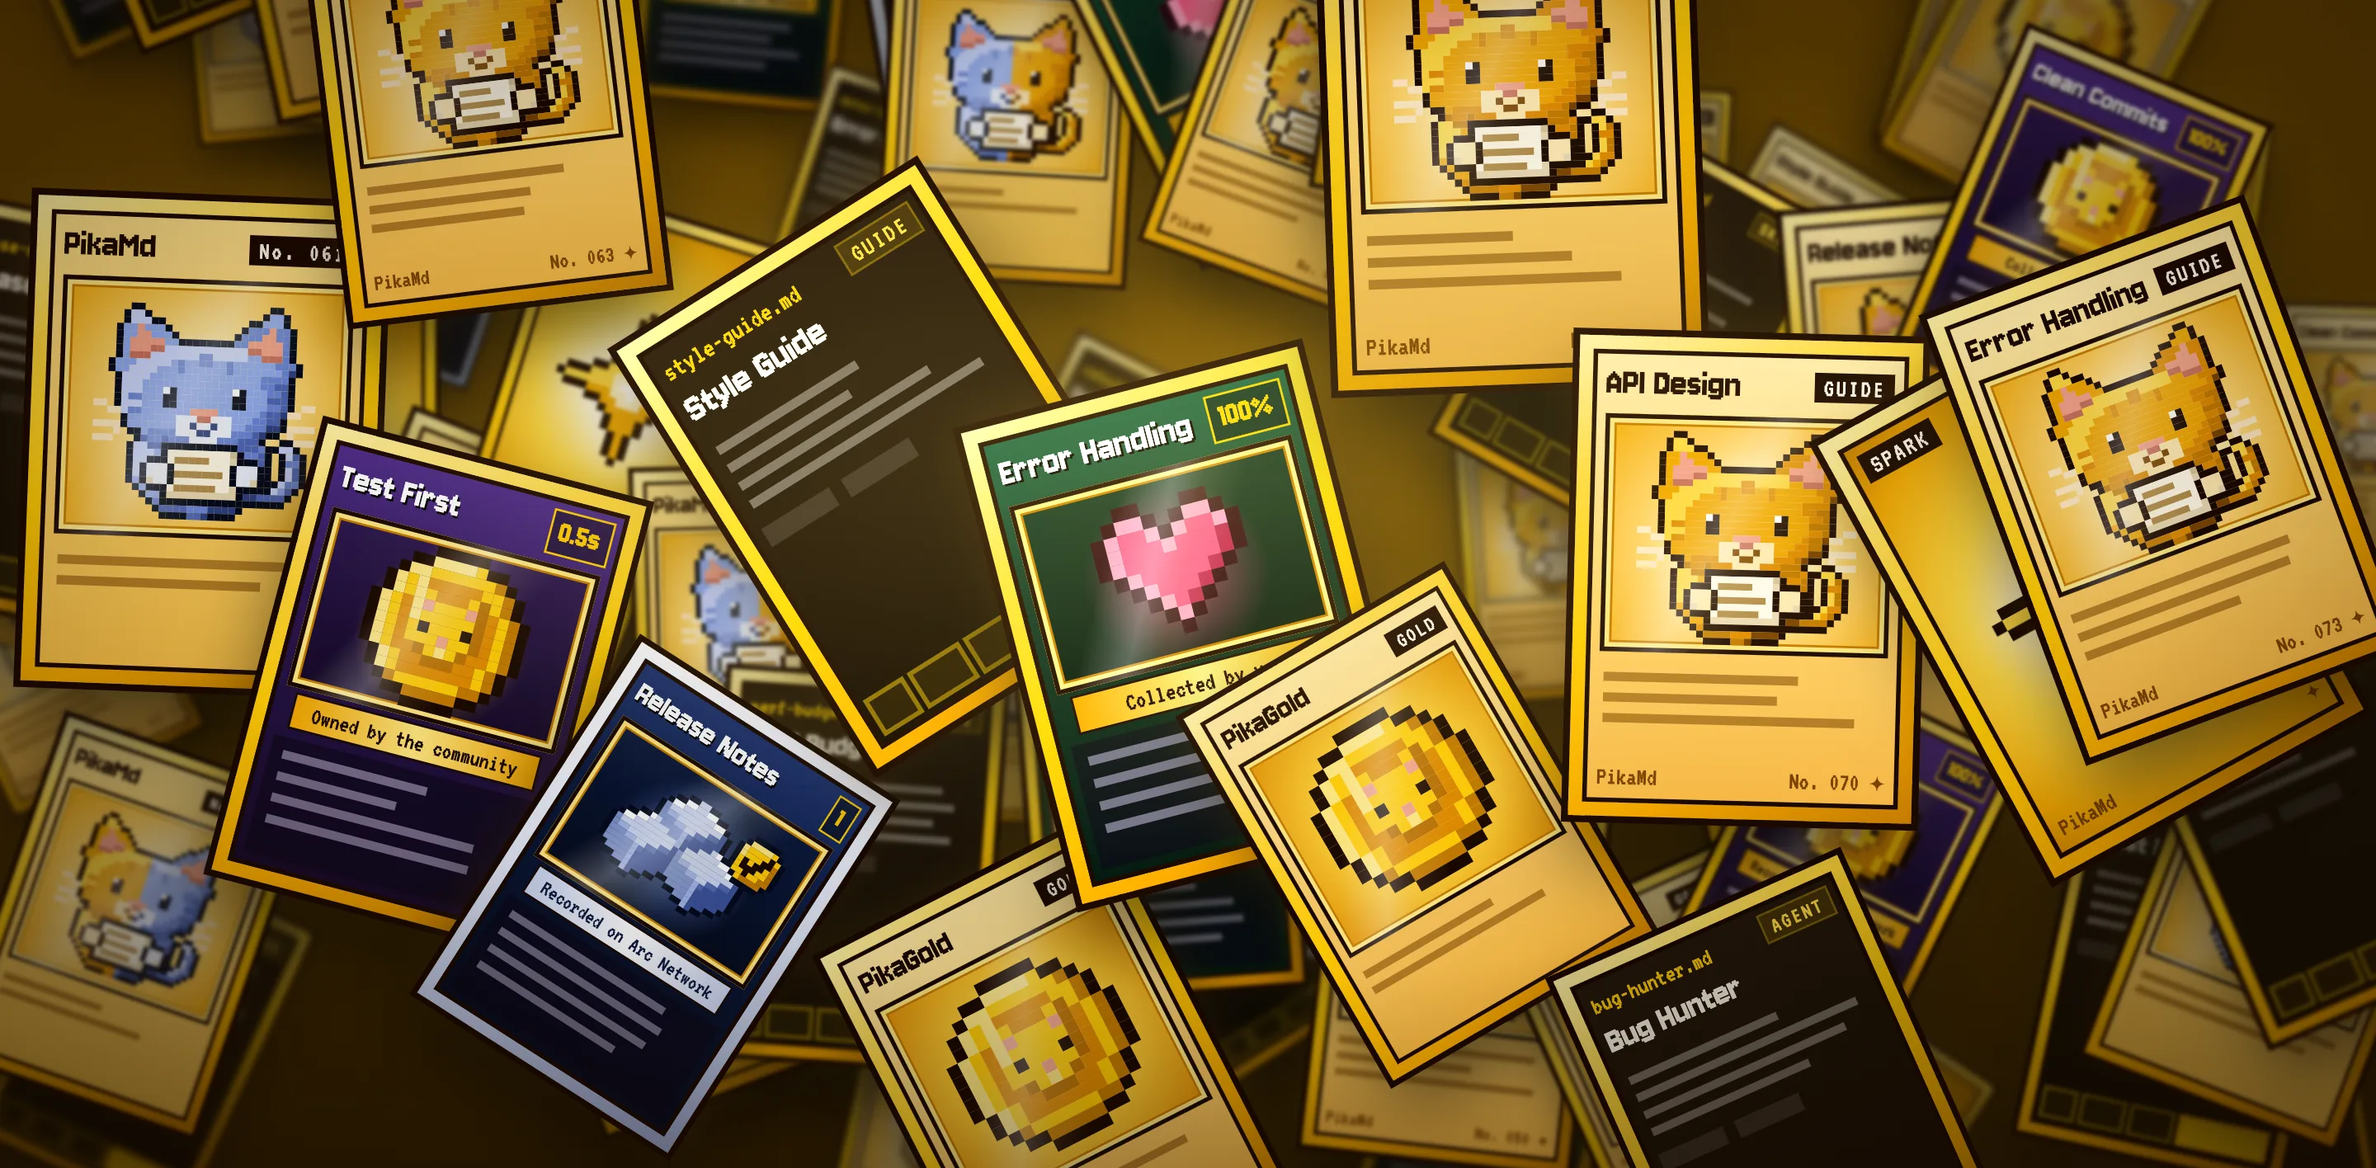
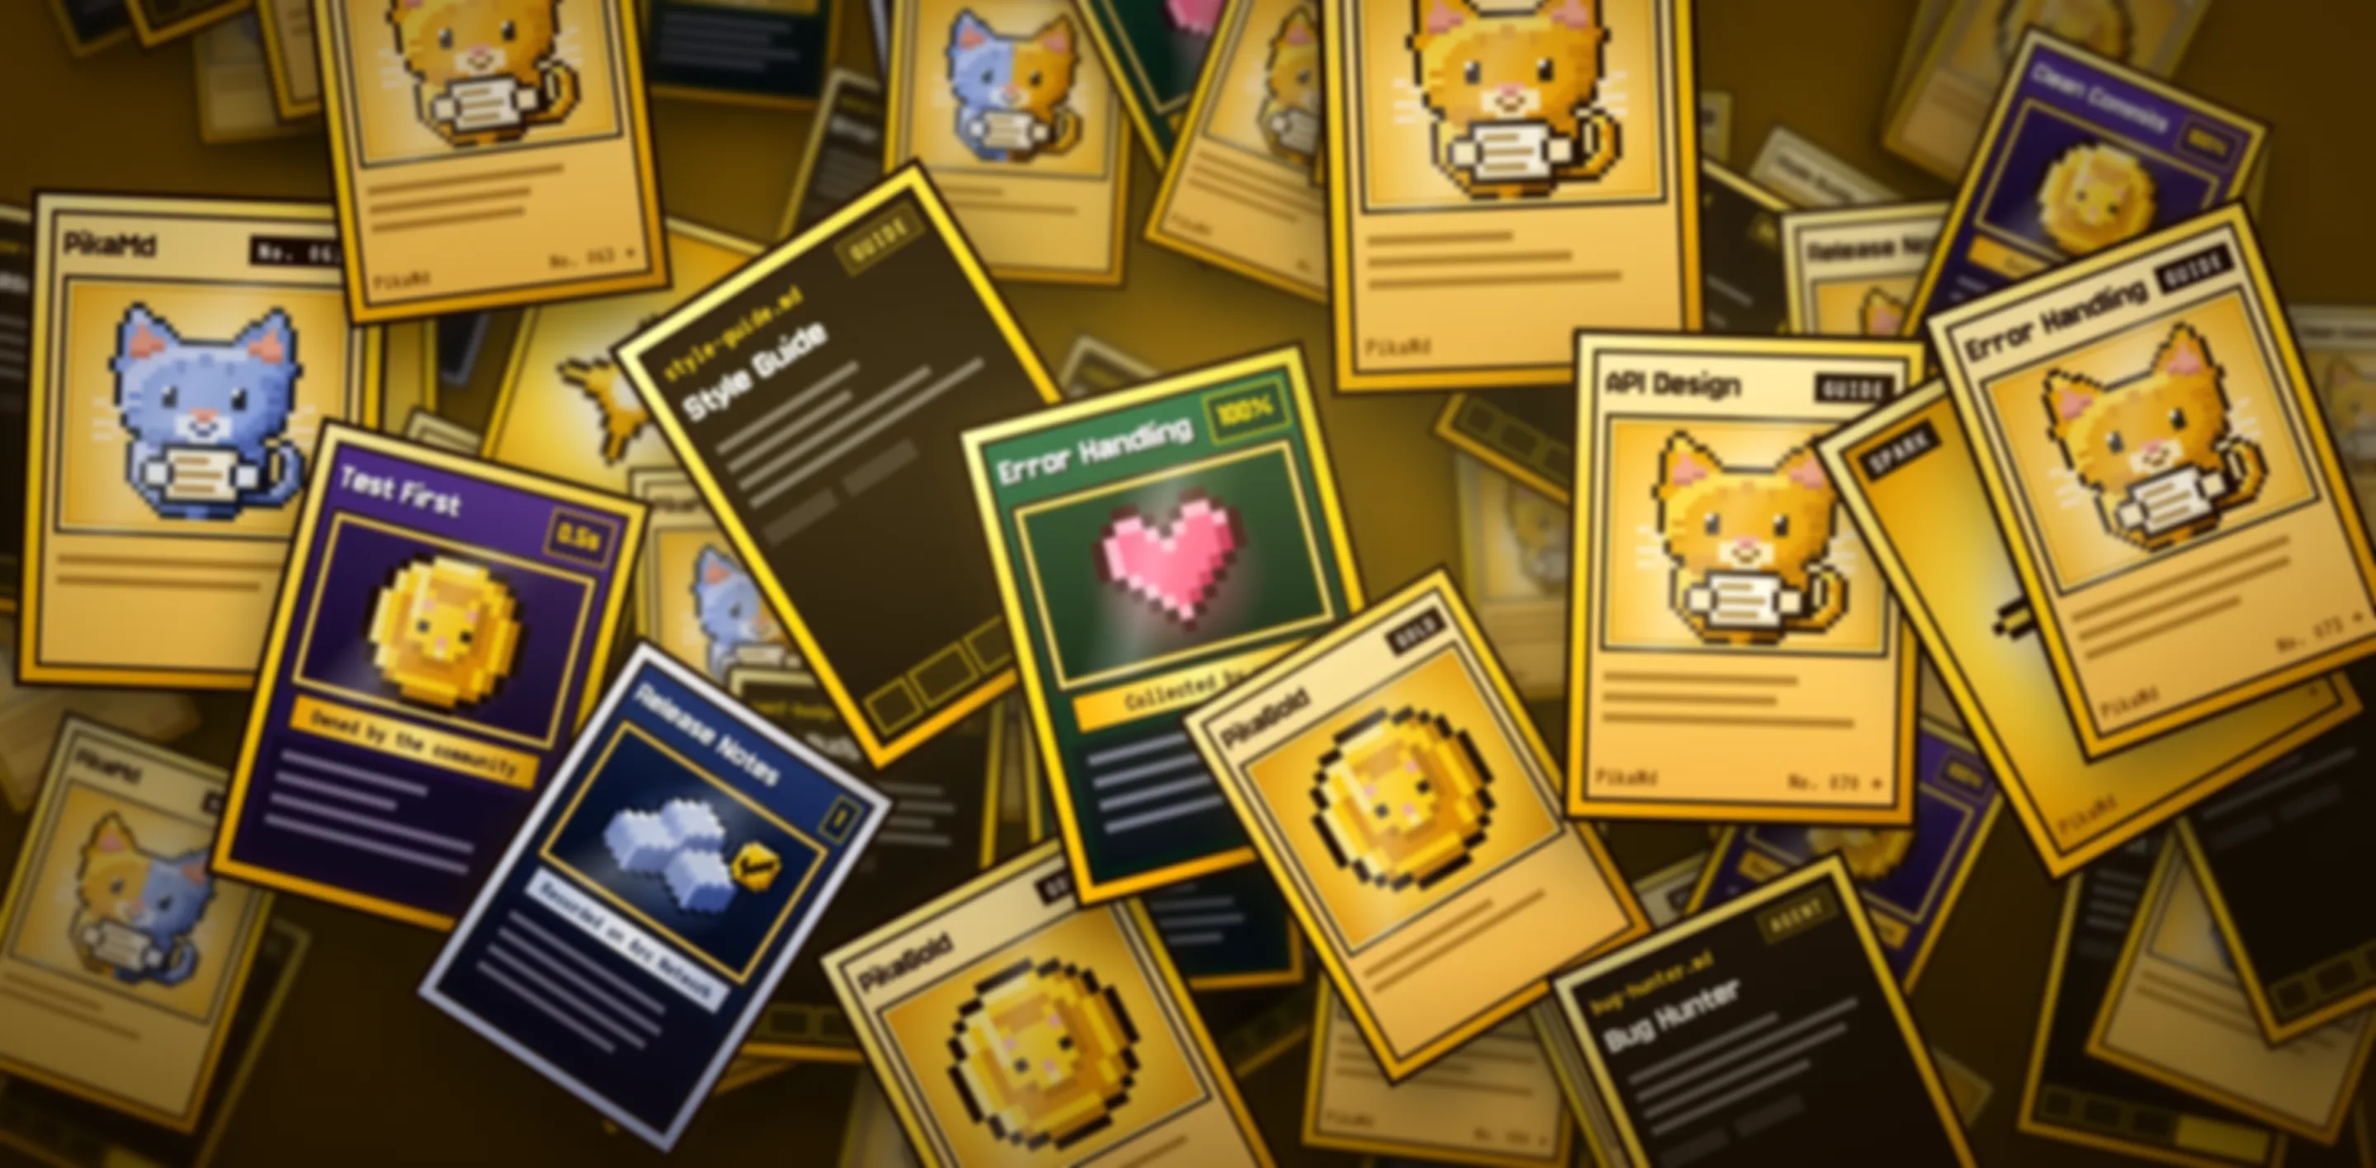
Make the moving parts light on the GPU without changing how they look
The Explore lanes now move in whole pixels, one every 50ms, on the same
clock as the sea, instead of a smooth slide redrawn at the display's rate.
The home plaque's cats run as a stepped transform on the compositor instead
of a registered property the main thread recomputed every frame. The agent
card's data pixels are HTML boxes, so the SVG is no longer repainted at each
step. The background's blur is baked into the image (pixel-compared), and the
Explore cards drop a backdrop blur that showed nothing. Measured on Explore:
GPU ~20% to ~7% of a core.

diff --git a/web/app/globals.css b/web/app/globals.css
@@ -58,14 +58,6 @@ body {
 
 /* Fields you type in keep the text cursor, so it shows where typing goes. In the base layer, so a
    component's own cursor (not-allowed, wait…) still wins */
-/* A running cat's position on the home plaque (.hp-cat): registered so it can animate as a length
-   and be rounded to whole pixels */
-@property --cat-x {
-  syntax: "<length>";
-  inherits: false;
-  initial-value: 0px;
-}
-
 @layer base {
   input:not([type="button"], [type="submit"], [type="reset"], [type="checkbox"], [type="radio"], [type="file"], [type="range"], [type="color"]),
   textarea,
@@ -112,10 +104,9 @@ body {
   object-fit: cover;
   object-position: center;
   display: block;
-  /* blur + slight scale: hides blurred-edge artifacts */
-  filter: blur(2px);
+  /* The blur is baked into the image (design/brand/background.mjs, BLUR_SIGMA): a full-screen CSS
+     filter here was recomputed by the GPU while anything on the page moved. Same look (pixel-compared), half the file */
   transform: scale(1.01);
-  will-change: transform;
 }
 
 /* Izgara dokusu */
@@ -655,7 +646,16 @@ body {
 .tcg-agents {
   filter: drop-shadow(0 0 12px rgba(255, 203, 5, 0.35));
 }
+.pixel-agents {
+  position: relative;
+  display: inline-block;
+  vertical-align: top;
+}
+.pixel-agents svg { display: block; }
+/* One art pixel (--agents-px) per step, 11 steps along the cable; composited (HTML, not SVG) */
 .tcg-pulse {
+  position: absolute;
+  background: #FFFFFF;
   animation: tcg-pulse 1.1s steps(11) infinite;
 }
 .tcg-pulse-late {
@@ -663,7 +663,7 @@ body {
 }
 @keyframes tcg-pulse {
   from { transform: translateX(0); }
-  to   { transform: translateX(11px); }
+  to   { transform: translateX(calc(11 * var(--agents-px, 3px))); }
 }
 
 /* Keeps the 63:88 card ratio as a minimum; grows instead of clipping text */
@@ -1085,9 +1085,11 @@ body {
 /* Two little cats on the top edge (HeroPlaque → RunningCat): the navbar mascot at 1:1, gold PikaMd
    on the left, Arc blue on the right. Each track is the flat rim between the corner and the
    swashes; paws (sprite row 33, --cat-foot from the top) stand on the frame's outer ink line, like
-   the swashes (--hp-crest below the frame top). The position (--cat-x) is rounded down to whole
-   steps of --cat-px, so a cat trots along the rim pixel by pixel instead of gliding; the legs, the
-   turn and the dust are transform and opacity. One loop: stand, run across, stand, turn, run back.
+   the swashes (--hp-crest below the frame top). The run is a transform in steps of --cat-px (the
+   distance rounded down to whole steps, one step per --cat-px), so a cat trots along the rim pixel
+   by pixel instead of gliding, on the compositor: until 2026-10-26 it animated a registered
+   property (--cat-x) that the main thread recomputed every frame (measured: ~11% of a core). The
+   legs, the turn and the dust are transform and opacity. One loop: stand, run across, stand, turn, run back.
    The maps face left, so the face is mirrored on the way right. */
 .hero-plaque { --hp-crest: 18px; --cat-px: 2px; --cat-w: 32px; --cat-h: 35px; --cat-foot: 34px; }
 .hp-track {
@@ -1108,9 +1110,11 @@ body {
   width: var(--cat-w);
   height: var(--cat-h);
   will-change: transform;
-  transform: translateX(var(--cat-x));
-  transform: translateX(round(down, var(--cat-x), var(--cat-px)));
   animation: hp-cat-run var(--cat-loop) linear infinite;
+  /* Applies to each stretch between keyframes: the runs there and back take one step per 2px
+     (32px = --cat-w, 2px = --cat-px; written out so a browser without typed arithmetic drops only
+     this line and the cat glides) */
+  animation-timing-function: steps(calc(round(down, 100cqw - 32px, 2px) / 2px));
 }
 /* The Arc cat starts at the far end, facing left, on a slightly longer loop: the two never sync */
 .hp-track-r .hp-cat { --cat-loop: 12.4s; }
@@ -1149,9 +1153,9 @@ body {
   .hp-cat { display: none; }
 }
 @keyframes hp-cat-run {
-  0%, 8% { --cat-x: 0px; }
-  46%, 54% { --cat-x: calc(100cqw - var(--cat-w)); }
-  92%, 100% { --cat-x: 0px; }
+  0%, 8% { transform: translateX(0); }
+  46%, 54% { transform: translateX(round(down, 100cqw - var(--cat-w), var(--cat-px))); }
+  92%, 100% { transform: translateX(0); }
 }
 @keyframes hp-cat-turn {
   0% { transform: scaleX(-1); }
@@ -1222,10 +1226,16 @@ body {
   padding: 6px 0 20px; /* room for the outer pixel frame and drop shadow */
 }
 
+/* One loop = one copy of the cards = cards × (card + gap) px. The lane moves 1px every 50ms
+   (20px/s) in steps instead of a smooth slide: the screen updates 20 times a second instead of at
+   the display's rate (120 on many laptops), text never sits between pixels, and the sea steps on
+   the same 50ms clock, so their updates land on the same frames. Measured (headless, 60Hz): the
+   GPU process went from ~20% to ~7% of a core with the lanes still moving. */
 .md-track {
+  --lane-steps: calc(var(--lane-cards, 10) * var(--lane-card-px, 294));
   display: flex;
   width: max-content;
-  animation: md-scroll-left var(--lane-duration, 120s) linear infinite;
+  animation: md-scroll-left calc(var(--lane-steps) * 50ms) steps(var(--lane-steps)) infinite;
   will-change: transform;
 }
 
@@ -1277,6 +1287,13 @@ body {
 .arc-sea > section {
   position: relative;
   z-index: 1;
+}
+/* The cards' frosted backdrop (.pixel-panel) shows nothing here: measured pixel for pixel, on lanes
+   and shelf, with and without it, the page is identical. On moving cards it only made the GPU blur
+   their backdrop at every step */
+.arc-sea .md-card {
+  backdrop-filter: none;
+  -webkit-backdrop-filter: none;
 }
 .arc-sea-water {
   position: absolute;
@@ -3273,7 +3290,7 @@ body {
 /* Explore lanes: compact cards (user request 2026-10-12). Whole-pixel sizes only, so the pixel
    frames stay crisp (no zoom/scale). Other pages keep the full-size card. Measured: the four
    buttons still fit one row, "✓ Added" included. */
-.md-lanes { --card-w: 272px; }
+.md-lanes { --card-w: 272px; --lane-card-px: 294; } /* card + 22px gap: one lane step per pixel */
 .md-lanes .md-card { gap: 7px; padding: 10px 12px 9px; }
 .md-lanes .md-file { font-size: 15px; }
 .md-lanes .md-badge { font-size: 12px; }
@@ -3292,7 +3309,7 @@ body {
 .md-lanes .md-card-actions .md-collect { gap: 6px; padding: 0 6px 1px; font-size: 17px; }
 
 @media (max-width: 639px) {
-  .md-lanes { --card-w: 264px; }
+  .md-lanes { --card-w: 264px; --lane-card-px: 286; }
 }
 
 /* ── Connect your agent: key → prompt → manual setup → try it (ARCHITECTURE §8.1) ── */

diff --git a/web/components/PixelAgents.tsx b/web/components/PixelAgents.tsx
@@ -91,14 +91,20 @@ function fill2(g: string[][], x0: number, y0: number, x1: number, y1: number, c:
 const SCENE = scene();
 
 export default function PixelAgents({ scale = 3 }: { scale?: number }) {
+  // The two data pixels are HTML boxes over the picture, not SVG rects: a transform on an SVG
+  // element isn't composited, so every step repainted all of the scene's rects on the main thread.
+  // As boxes they move on the compositor and the scene is painted once.
+  const pulse = { left: CABLE_FROM * scale, top: CABLE_Y * scale, width: scale, height: scale };
   return (
-    <svg width={W * scale} height={H * scale} viewBox={`0 0 ${W} ${H}`} shapeRendering="crispEdges" aria-hidden="true">
-      {SCENE.flatMap((row, y) =>
-        row.map((c, x) => (c === "." ? null : <rect key={`${x}-${y}`} x={x} y={y} width={1} height={1} style={{ fill: PALETTE[c] }} />)),
-      )}
+    <span className="pixel-agents" style={{ width: W * scale, height: H * scale, ["--agents-px" as string]: `${scale}px` }}>
+      <svg width={W * scale} height={H * scale} viewBox={`0 0 ${W} ${H}`} shapeRendering="crispEdges" aria-hidden="true">
+        {SCENE.flatMap((row, y) =>
+          row.map((c, x) => (c === "." ? null : <rect key={`${x}-${y}`} x={x} y={y} width={1} height={1} style={{ fill: PALETTE[c] }} />)),
+        )}
+      </svg>
       {/* Data running from the page to the agent: white pixels stepping along the gold cable */}
-      <rect className="tcg-pulse" x={CABLE_FROM} y={CABLE_Y} width={1} height={1} style={{ fill: "#FFFFFF" }} />
-      <rect className="tcg-pulse tcg-pulse-late" x={CABLE_FROM} y={CABLE_Y} width={1} height={1} style={{ fill: "#FFFFFF" }} />
-    </svg>
+      <span className="tcg-pulse" style={pulse} aria-hidden="true" />
+      <span className="tcg-pulse tcg-pulse-late" style={pulse} aria-hidden="true" />
+    </span>
   );
 }

diff --git a/web/components/MdLanes.tsx b/web/components/MdLanes.tsx
@@ -7,13 +7,12 @@ type Direction = "left" | "right";
 // Two endless lanes: right→left, then left→right (from LANES_FROM cards; fewer stand on a shelf).
 // Each lane renders its cards twice and slides by exactly one copy (-50%),
 // so the loop is seamless. Pure CSS animation; only the collect buttons are client components.
-const LANES: { direction: Direction; seconds: number }[] = [
-  { direction: "left", seconds: 120 },
-  { direction: "right", seconds: 140 },
-];
+// The lane moves in whole pixels, one every 50ms (globals.css, .md-track): the card count sets
+// how many steps one loop takes.
+const LANES: { direction: Direction }[] = [{ direction: "left" }, { direction: "right" }];
 
-function Lane({ items, direction, seconds }: { items: GuidelineCard[]; direction: Direction; seconds: number }) {
-  const style = { "--lane-duration": `${seconds}s` } as CSSProperties;
+function Lane({ items, direction }: { items: GuidelineCard[]; direction: Direction }) {
+  const style = { "--lane-cards": items.length } as CSSProperties;
   return (
     <div className={`md-lane md-lane-${direction}`} style={style}>
       <div className="md-track">
@@ -53,7 +52,7 @@ export default function MdLanes({ guidelines }: { guidelines: GuidelineCard[] })
   return (
     <section className="md-lanes" aria-label="Guideline pool">
       {LANES.map((lane, i) => (
-        <Lane key={i} items={lanes[i]} direction={lane.direction} seconds={lane.seconds} />
+        <Lane key={i} items={lanes[i]} direction={lane.direction} />
       ))}
     </section>
   );

diff --git a/web/components/explore/ArcSea.tsx b/web/components/explore/ArcSea.tsx
@@ -80,7 +80,7 @@ export default function ArcSea() {
               backgroundSize: `${tile(f.width)} ${FOAM_ROWS * P}px`,
               width: `calc(100% + ${tile(f.width)})`,
               marginLeft: `-${tile(f.width)}`,
-              animationDuration: `${[18, 24][i]}s`,
+              animationDuration: `${[16, 24][i]}s`, // 250ms and 300ms a step: on the lanes' 50ms clock
               animationTimingFunction: `steps(${f.width})`,
               ["--sea-tile" as string]: tile(f.width),
             }}
@@ -97,7 +97,7 @@ export default function ArcSea() {
             backgroundRepeat: "repeat-x, no-repeat",
             width: `calc(100% + ${tile(SURFACE.width)})`,
             marginLeft: `-${tile(SURFACE.width)}`,
-            animationDuration: "14s",
+            animationDuration: "12.8s", // 200ms a step: on the lanes' 50ms clock
             animationTimingFunction: `steps(${SURFACE.width})`,
             ["--sea-tile" as string]: tile(SURFACE.width),
           }}

diff --git a/DESIGN.md b/DESIGN.md
@@ -9,7 +9,7 @@
 ## 1. Tasarım dili: oyunlaştırılmış, okunaklı piksel sanatı
 
 - **Tarz:** 8-bit / retro oyun estetiği, premium ve okunaklı. Kullanıcı "piksel tarzı ama okunabilir" istedi.
-- **Zemin (2026-10-15, telif temizliği):** PikaMd'nin kendi koleksiyon kartlarından oluşan sıcak altın bir yığın (`web/public/bg/pikamd-cards.webp`, 2880×1416, 424 KB; eski Pokémon kartlı `background1.png` kaldırıldı). Kartlarda maskot (2026-10-25'ten beri kedi; arka plan aynı tohumla yeniden üretildi, kartların yeri ve sırası birebir aynı; "PikaMd No." kafa kartlarında 16×16 kafa yerine elinde sayfa tutan tam maskot, kart numarasına göre yarı PikaMd sarısı–yarı Arc mavisi, tersi ya da tamamen Arc mavisi), PikaGold sikkesi, dört köşeli parıltı, yönerge dosyaları ve mor/lacivert/yeşil özellik kartları; başlıklar genel adlar (üçüncü taraf ürün adı yok). `design/brand/background.mjs` ile üretilir (sitenin piksel haritalarını bileşenlerden okur, sabit tohumlu → aynı görsel; HTML sahnesi headless Chrome'da 2× çekilir). Efektler PikaStake'tekiyle aynı: `blur(2px)` + `scale(1.01)`, üstünde `rgba(4,2,0,0.35)` koyu katman, en üstte 40px silik sarı ızgara. Görsel yüklenene kadar `placeholder="blur"` (webp statik içe aktarmada Next otomatik üretir) + amber yedek zemin (asla siyah ekran olmasın).
+- **Zemin (2026-10-15, telif temizliği):** PikaMd'nin kendi koleksiyon kartlarından oluşan sıcak altın bir yığın (`web/public/bg/pikamd-cards.webp`, 2880×1416, 424 KB; eski Pokémon kartlı `background1.png` kaldırıldı). Kartlarda maskot (2026-10-25'ten beri kedi; arka plan aynı tohumla yeniden üretildi, kartların yeri ve sırası birebir aynı; "PikaMd No." kafa kartlarında 16×16 kafa yerine elinde sayfa tutan tam maskot, kart numarasına göre yarı PikaMd sarısı–yarı Arc mavisi, tersi ya da tamamen Arc mavisi), PikaGold sikkesi, dört köşeli parıltı, yönerge dosyaları ve mor/lacivert/yeşil özellik kartları; başlıklar genel adlar (üçüncü taraf ürün adı yok). `design/brand/background.mjs` ile üretilir (sitenin piksel haritalarını bileşenlerden okur, sabit tohumlu → aynı görsel; HTML sahnesi headless Chrome'da 2× çekilir). Efektler PikaStake'tekiyle aynı: `blur(2px)` + `scale(1.01)` (**2026-10-26'dan beri bulanıklık görsele gömülü**: `background.mjs` → `sharp.blur(3.5)`; CSS filtresi kalktı, görünüm piksel piksel karşılaştırıldı: 1440 / 1920 / 390 px'te ortalama fark < 2/255; dosya 430 → 202 KB), üstünde `rgba(4,2,0,0.35)` koyu katman, en üstte 40px silik sarı ızgara. Görsel yüklenene kadar `placeholder="blur"` (webp statik içe aktarmada Next otomatik üretir) + amber yedek zemin (asla siyah ekran olmasın).
 - **Dil:** Sitedeki her metin İngilizce (ARCHITECTURE K18).
 
 ### 1.1 Renkler (`web/app/globals.css` → `:root`)
@@ -49,6 +49,13 @@
 - **İmleç (2026-10-15, kullanıcı isteği):** yazıların üstünde imleç değişmez. `body { cursor: default }` tüm sayfaya miras kalır; metin yine seçilip kopyalanabilir (`user-select` kapatılmaz). Linkler ve butonlar el imlecini korur. Yazı yazılan alanlar (`input`, `textarea`, `contenteditable`) metin imlecini `@layer base`'de korur; bileşenin kendi imleci (`not-allowed`, `wait`…) her zaman kazanır. Ölçüldü: 6 sayfada metin imleci gösteren yazı yok, seçim çalışıyor.
 
 ---
+
+### 1.6 Performans: hareket hafif kalır (2026-10-26, kullanıcı isteği: "GPU ısındı, estetikten ödün vermeden gereksiz yükleri kaldır")
+Ölçüm yöntemi: headless Chrome (yazılım GPU'su SwiftShader, yani GPU işi = GPU sürecinin işlemci süresi) + `SystemInfo.getProcessInfo`, 6 sn, her şüpheli tek tek kapatılarak. Kurallar:
+- **Sürekli hareket tam piksel adımlarla** (`steps()`), pürüzsüz değil: ekran saniyede 120 kez değil, yalnızca bir şey değiştiğinde güncellenir; yazı alt piksellerde titremez. Explore şeritleri her 50 ms'de 1 px (20 px/s; adım sayısı = kart sayısı × (kart + boşluk), `--lane-cards` / `--lane-card-px`), deniz aynı 50 ms saatinde (200 / 250 / 300 ms'lik adımlar).
+- **Yalnızca `transform` / `opacity` canlandırılır.** Özel CSS değişkeni (`@property`) ya da SVG öğesi canlandırma: ana iş parçacığı her karede çalışır. Kediler artık doğrudan `transform` + öğedeki `steps(calc(round(down, 100cqw - 32px, 2px) / 2px))` (yine 2 px'lik adımlar, tümü ölçüldü); kart 004'ün veri pikselleri SVG `<rect>` yerine SVG'nin üstünde iki HTML kutusu (SVG'nin yüzlerce rect'i her adımda yeniden boyanıyordu).
+- **Görünür etkisi olmayan filtre yok.** Explore kartlarının `backdrop-filter`'ı ekranda hiçbir şey değiştirmiyordu (şerit ve rafta piksel farkı 0; şeridin kenar maskesi yeni bir backdrop kökü) → `.arc-sea .md-card` için kapalı. Arka plan bulanıklığı görsele gömülü.
+- Sonuç (1440×900, 60 Hz): Explore GPU %19,8 → %7,2, sayfa %5,6 → %3,4; ana sayfa sayfa yükü %11,1 → %6,3 (GPU ~%15: kedilerin ve parıltıların küçük alanlı adımları; yazılım GPU'su her adımda tüm ekranı birleştirir, gerçek GPU yalnızca değişen alanı). Diğer sayfalar ~%2. Yeni animasyon eklerken: önce bu ölçüm.
 
 ## 2. Bileşenler (`web/components/`)
 
